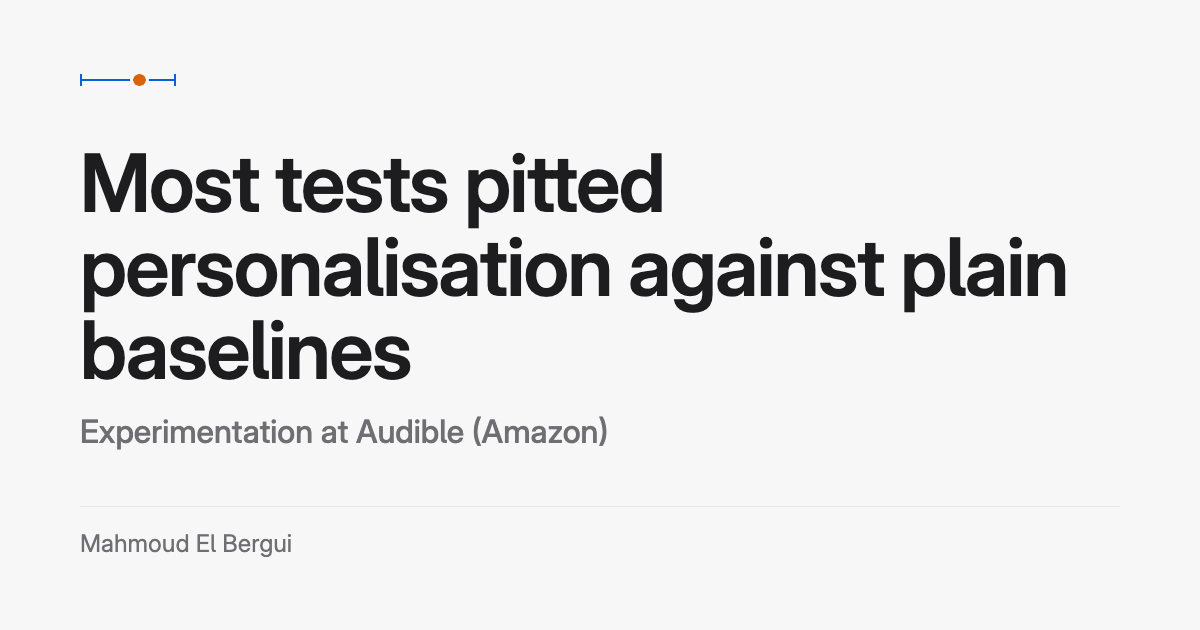
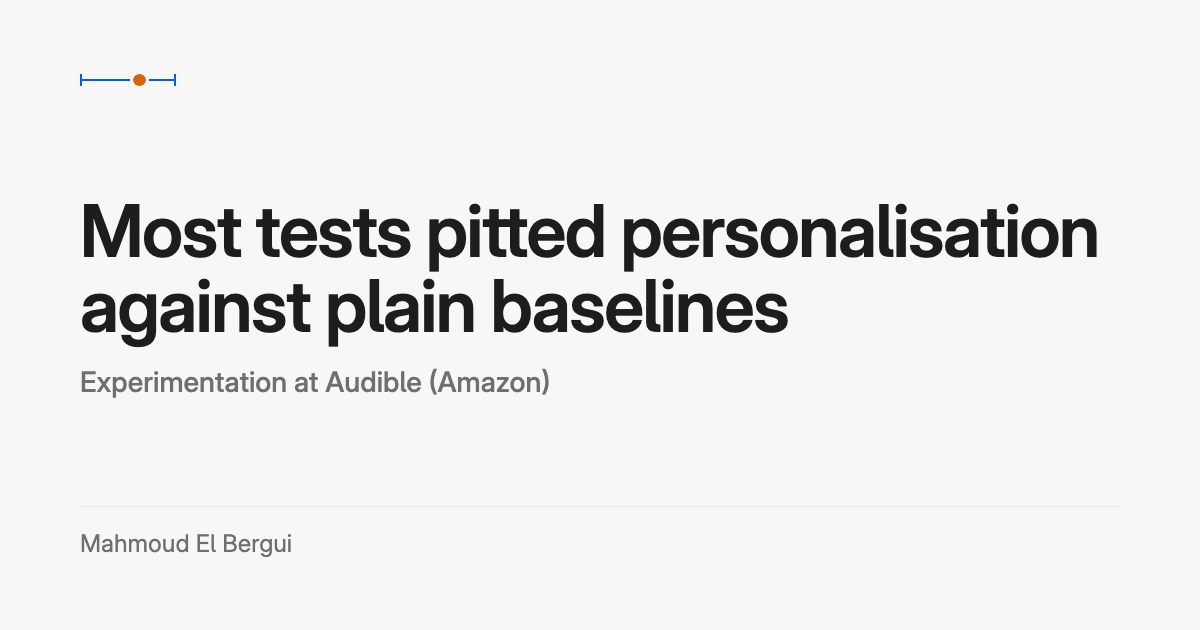
chore(og): the site card carries the new headline; title and line one size smaller

Changed region(s): [[0.0617, 0.2413, 0.925, 0.6333], [0.0617, 0.6635, 0.5242, 0.7238]]

diff --git a/tests/e2e/home-widgets.spec.ts b/tests/e2e/home-widgets.spec.ts
@@ -1,0 +1,86 @@
+// The Home widgets that are native elements: the "How I test" tabs (radios inside labels, one panel at a
+// time), the FAQ rows (details), the live bar and the experience band's sheets at two sizes.
+import { expect } from '@playwright/test';
+import { test } from './fixtures';
+
+test.describe('Home widgets', () => {
+  test('How I test: the tabs switch by keyboard and by pointer, and one panel shows at a time', async ({ page }) => {
+    await page.goto('/');
+    const tabs = page.locator('[data-home-how] [role="radiogroup"] input[type="radio"]');
+    await expect(tabs).toHaveCount(3);
+    const visiblePanels = () =>
+      page.locator('[data-how-panel]').evaluateAll((els) =>
+        els.filter((el) => getComputedStyle(el).display !== 'none').map((el) => el.getAttribute('data-how-panel')),
+      );
+    await expect(tabs.nth(0)).toBeChecked();
+    expect(await visiblePanels()).toEqual(['plan']);
+    // Keyboard: the browser moves the selection with the arrow keys inside a radio group.
+    await tabs.nth(0).focus();
+    await page.keyboard.press('ArrowDown');
+    await expect(tabs.nth(1)).toBeChecked();
+    expect(await visiblePanels()).toEqual(['read']);
+    await page.keyboard.press('ArrowDown');
+    await expect(tabs.nth(2)).toBeChecked();
+    expect(await visiblePanels()).toEqual(['recommend']);
+    // Pointer: a click on a tab's label selects it.
+    await page.locator('[data-home-how] label').first().click();
+    await expect(tabs.nth(0)).toBeChecked();
+    expect(await visiblePanels()).toEqual(['plan']);
+  });
+
+  test('FAQ: a row opens and closes by keyboard', async ({ page }) => {
+    await page.goto('/');
+    const rows = page.locator('[data-home-faq] [data-faq-row]');
+    expect(await rows.count()).toBeGreaterThanOrEqual(2);
+    await expect(rows.first()).toHaveJSProperty('open', true);
+    const second = rows.nth(1);
+    await expect(second).toHaveJSProperty('open', false);
+    await second.locator('summary').focus();
+    await page.keyboard.press('Enter');
+    await expect(second).toHaveJSProperty('open', true);
+    await page.keyboard.press('Space');
+    await expect(second).toHaveJSProperty('open', false);
+  });
+
+  test('live bar: present with its sentence and a link to the live test', async ({ page }) => {
+    await page.goto('/');
+    const bar = page.getByRole('region', { name: 'Live test' });
+    await expect(bar).toHaveCount(1);
+    await expect(bar).toBeVisible();
+    expect((await bar.innerText()).trim().length).toBeGreaterThan(0);
+    await expect(bar.getByRole('link')).toHaveCount(1);
+    await expect(bar.getByRole('link')).toHaveAttribute('href', /\/experiment/);
+  });
+
+  for (const size of [{ width: 1024, height: 768 }, { width: 390, height: 844 }]) {
+    test(`experience band: the sheets do not overflow at ${size.width}x${size.height}`, async ({ page }) => {
+      await page.setViewportSize(size);
+      await page.goto('/');
+      const band = page.locator('[data-depth-band]');
+      await band.scrollIntoViewIfNeeded();
+      // Walk down the band so a scroll-linked layout reaches its end state as well.
+      for (const fraction of [0, 0.5, 1]) {
+        await page.evaluate((f) => {
+          const b = document.querySelector('[data-depth-band]')!.getBoundingClientRect();
+          window.scrollTo(0, window.scrollY + b.top + f * Math.max(0, b.height - window.innerHeight));
+        }, fraction);
+        await page.waitForTimeout(200);
+        expect(
+          await page.evaluate(() => document.documentElement.scrollWidth - document.documentElement.clientWidth),
+          `sideways scroll at ${fraction}`,
+        ).toBeLessThanOrEqual(0);
+        const sheets = await page.locator('[data-depth-sheet]').evaluateAll((els) =>
+          els.map((el) => {
+            const r = el.getBoundingClientRect();
+            return { left: r.left, right: r.right };
+          }),
+        );
+        expect(sheets.length).toBeGreaterThanOrEqual(3);
+        for (const s of sheets) {
+          expect(s.left, 'sheet left edge in the viewport').toBeGreaterThanOrEqual(-1);
+          expect(s.right, 'sheet right edge in the viewport').toBeLessThanOrEqual(size.width + 1);
+        }
+      }
+    });
+  }
+});

diff --git a/src/lib/seo/og-template.ts b/src/lib/seo/og-template.ts
@@ -2,7 +2,7 @@
 // Playwright's Chromium into public/og/*.png. Pure: the colours come from tokens.css and the font
 // from a URL the caller passes (the vendored Inter as a data URL), so the page loads nothing remote.
 //
-// Layout: the large interval glyph (96 x 16) at the top, then an 80 px title, 32 px lines under it
+// Layout: the large interval glyph (96 x 16) at the top, then a 72 px title, 28 px lines under it
 // and a 24 px footer above a rule, inside 72 px by 80 px padding. The site card's title is the site's
 // headline and its line the role line; a case card's title is its finding and its line the study's
 // name. Both carry the name in the footer. A proof line under the line is optional.
@@ -80,8 +80,8 @@ export function ogHtml(card: OgCard, theme: OgTheme, fontUrl: string): string {
     '.glyph b::before,.glyph b::after{content:"";position:absolute;top:-5.4px;width:2.4px;height:12.8px;background:var(--s1)}',
     '.glyph b::before{left:0}.glyph b::after{right:0}',
     '.glyph i{position:absolute;left:62%;top:1.6px;width:12.8px;height:12.8px;margin-left:-6.4px;border-radius:50%;background:var(--s2);outline:3.2px solid var(--bg)}',
-    'h1{font-size:80px;line-height:1.04;font-weight:600;letter-spacing:-.02em;margin:0;max-width:1040px}',
-    '.sub{font-size:32px;line-height:1.3;color:var(--muted);margin:20px 0 0;font-weight:500;max-width:1040px}',
+    'h1{font-size:72px;line-height:1.04;font-weight:600;letter-spacing:-.02em;margin:0;max-width:1040px}',
+    '.sub{font-size:28px;line-height:1.3;color:var(--muted);margin:20px 0 0;font-weight:500;max-width:1040px}',
     '.sub.proof{margin-top:8px}',
     '.sub strong{color:var(--ink);font-weight:600}',
     '.foot{font-size:24px;color:var(--muted);border-top:1px solid var(--line);padding-top:22px}',

diff --git a/scripts/og-render.ts b/scripts/og-render.ts
@@ -60,7 +60,7 @@ async function main(argv: string[]): Promise<number> {
     for (const card of plan.cards) {
       await page.setContent(card.html, { waitUntil: 'load' });
       await page.evaluate(() => document.fonts.ready);
-      const loaded = await page.evaluate(() => document.fonts.check('600 80px Inter') && document.fonts.check('500 32px Inter'));
+      const loaded = await page.evaluate(() => document.fonts.check('600 72px Inter') && document.fonts.check('500 28px Inter'));
       if (!loaded) throw new Error(`${card.file}: the embedded Inter did not load`);
       // Everything inside the padding, nothing overlapping: the text block ends above the footer
       // rule, the footer ends at the bottom padding, and no line is wider than the content box.

diff --git a/tests/unit/seo/metadata.test.ts b/tests/unit/seo/metadata.test.ts
@@ -530,8 +530,8 @@ describe('sharingTemplate', () => {
       expect(html).toMatch(/width:\s*1200px/);
       expect(html).toMatch(/height:\s*630px/);
       expect(html).toMatch(/padding:\s*72px 80px/);
-      expect(html).toMatch(/h1\{[^}]*font-size:\s*80px/);
-      expect(html).toMatch(/\.sub\{[^}]*font-size:\s*32px/);
+      expect(html).toMatch(/h1\{[^}]*font-size:\s*72px/);
+      expect(html).toMatch(/\.sub\{[^}]*font-size:\s*28px/);
       expect(html).toMatch(/\.foot\{[^}]*font-size:\s*24px/);
       expect(html).toMatch(/\.glyph\{[^}]*width:\s*96px;\s*height:\s*16px/);
       // No remote asset and no address: the only URL is the embedded font.
